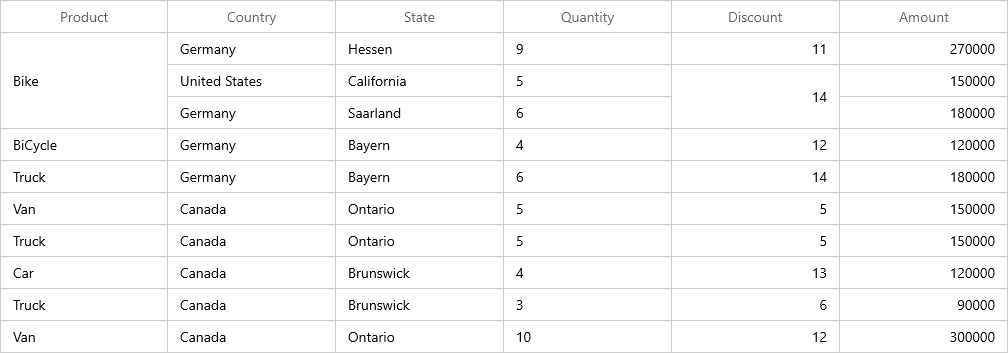
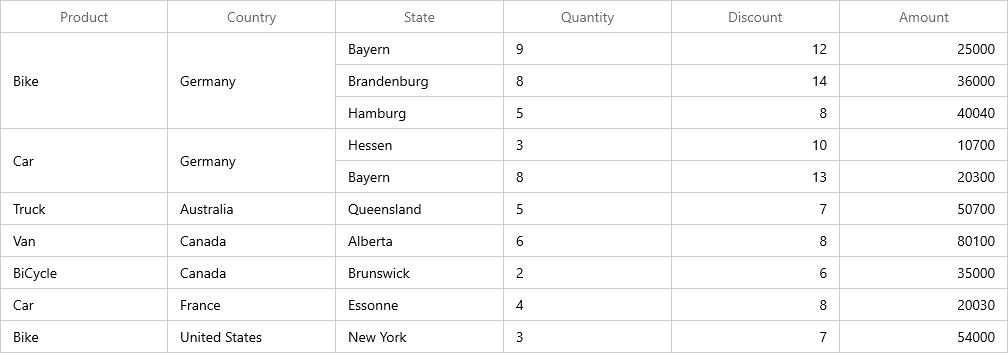
ModifiedSample
ModifiedSample

diff --git a/SfDataGridDemo/SfDataGridDemo/ViewModel/ProductSalesDetailsCollection.cs b/SfDataGridDemo/SfDataGridDemo/ViewModel/ProductSalesDetailsCollection.cs
@@ -54,62 +54,19 @@ namespace SfDataGridDemo
         /// <returns></returns>
         public ObservableCollection<ProductSalesDetails> GetSalesInfo()
         {
-            /// Geography
-            string[] countries = new string[] { "Australia", "Canada", "France", "Germany", "United States" };
-            string[] ausStates = new string[] { "New South Wales", "Queensland", "South Australia", "Tasmania", "Victoria" };
-            string[] canadaStates = new string[] { "Alberta", "British Columbia", "Brunswick", "Manitoba", "Ontario", "Quebec" };
-            string[] franceStates = new string[] { "Charente-Maritime", "Essonne", "Garonne (Haute)", "Gers", };
-            string[] germanyStates = new string[] { "Bayern", "Brandenburg", "Hamburg", "Hessen", "Nordrhein-Westfalen", "Saarland" };
+            _productInfo = new ObservableCollection<ProductSalesDetails>();
+            _productInfo.Add(new ProductSalesDetails("Bike", "Germany", "Bayern", 9, 12, 25000));
+            _productInfo.Add(new ProductSalesDetails("Bike", "Germany", "Brandenburg", 8, 14, 36000));
+            _productInfo.Add(new ProductSalesDetails("Bike", "Germany", "Hamburg", 5, 8, 40040));
+            _productInfo.Add(new ProductSalesDetails("Car", "Germany", "Hessen", 3, 10, 10700));
+            _productInfo.Add(new ProductSalesDetails("Car", "Germany", "Bayern", 8, 13, 20300));
+            _productInfo.Add(new ProductSalesDetails("Truck", "Australia", "Queensland", 5, 7, 50700));
+            _productInfo.Add(new ProductSalesDetails("Van", "Canada", "Alberta", 6, 8, 80100));
+            _productInfo.Add(new ProductSalesDetails("BiCycle", "Canada", "Brunswick", 2, 6, 35000));
+            _productInfo.Add(new ProductSalesDetails("Car", "France", "Essonne", 4, 8, 20030));
+            _productInfo.Add(new ProductSalesDetails("Bike", "United States", "New York", 3, 7, 54000));
 
-            string[] ussStates = new string[] { "New York", "North Carolina", "Alabama", "California", "Colorado", "New Mexico", "South Carolina" };
-
-            /// Products
-            string[] products = new string[] { "Bike", "Car", "Truck", "Van", "BiCycle" };
-            Random r = new Random(0);
-
-            int numberOfRecords = 10;
-            ObservableCollection<ProductSalesDetails> listOfProductSales = new ObservableCollection<ProductSalesDetails>();
-            for (int i = 0; i < numberOfRecords; i++)
-            {
-                ProductSalesDetails sales = new ProductSalesDetails();
-                sales.Country = countries[r.Next(1, countries.GetLength(0))];
-                sales.Quantity = r.Next(1, 12);
-                sales.Discount = r.Next(1, 15);
-                sales.Amount = (30000 * sales.Quantity);
-                sales.Product = products[r.Next(r.Next(products.GetLength(0) + 1))];
-                switch (sales.Country)
-                {
-                    case "Australia":
-                        {
-                            sales.State = ausStates[r.Next(ausStates.GetLength(0))];
-                            break;
-                        }
-                    case "Canada":
-                        {
-                            sales.State = canadaStates[r.Next(canadaStates.GetLength(0))];
-                            break;
-                        }
-                    case "France":
-                        {
-                            sales.State = franceStates[r.Next(franceStates.GetLength(0))];
-                            break;
-                        }
-                    case "Germany":
-                        {
-                            sales.State = germanyStates[r.Next(germanyStates.GetLength(0))];
-                            break;
-                        }
-                    case "United States":
-                        {
-                            sales.State = ussStates[r.Next(ussStates.GetLength(0))];
-                            break;
-                        }
-                }
-
-                listOfProductSales.Add(sales);
-            }
-
-            return listOfProductSales;
+            return _productInfo;
         }
     }
 }

diff --git a/SfDataGridDemo/SfDataGridDemo/MainWindow.xaml.cs b/SfDataGridDemo/SfDataGridDemo/MainWindow.xaml.cs
@@ -29,8 +29,8 @@ namespace SfDataGridDemo
         public MainWindow()
         {
             this.InitializeComponent();
-            this.sfDataGrid.ItemsSourceChanged += SfDataGrid_ItemsSourceChanged;
-            this.sfDataGrid.QueryCoveredRange += SfDataGrid_QueryCoveredRange;
+            this.sfDataGrid.ItemsSourceChanged += OnItemsSourceChanged;
+            this.sfDataGrid.QueryCoveredRange += OnQueryCoveredRange;
         }
 
 
@@ -43,7 +43,7 @@ namespace SfDataGridDemo
         /// <summary>
         /// ItemsSourceChanged event handler.
         /// </summary>
-        private void SfDataGrid_ItemsSourceChanged(object sender, GridItemsSourceChangedEventArgs e)
+        private void OnItemsSourceChanged(object sender, GridItemsSourceChangedEventArgs e)
         {
             if (sfDataGrid.View != null)
                 reflector = sfDataGrid.View.GetPropertyAccessProvider();
@@ -54,12 +54,12 @@ namespace SfDataGridDemo
         /// <summary>
         /// QueryCoveredRange event handler
         /// </summary>
-        private void SfDataGrid_QueryCoveredRange(object sender, GridQueryCoveredRangeEventArgs e)
+        private void OnQueryCoveredRange(object sender, GridQueryCoveredRangeEventArgs e)
         {
             CoveredCellInfo range = null;
 
             ////here apply merge the cell based on Columns
-            if (e.GridColumn.MappingName == "Product" || e.GridColumn.MappingName == "Country" || e.GridColumn.MappingName == "Discount")
+            if (e.GridColumn.MappingName == "Product" || e.GridColumn.MappingName == "Country" )
                 range = GetRange(e.GridColumn, e.RowColumnIndex.RowIndex, e.RowColumnIndex.ColumnIndex, e.Record);
 
             if (range == null)
@@ -89,7 +89,7 @@ namespace SfDataGridDemo
             var range = new CoveredCellInfo(columnIndex, columnIndex, rowIndex, rowIndex);
             object data = reflector.GetFormattedValue(rowData, column.MappingName);
 
-            //here get the Product value for checikng other cell value
+            //here get the Product value for checking  other cell value
             string productData = (rowData as ProductSalesDetails).Product;
 
             GridColumn leftColumn = null;
@@ -211,7 +211,7 @@ namespace SfDataGridDemo
                     break;
                 var compareData = reflector.GetFormattedValue((nextData as RecordEntry).Data, column.MappingName);
 
-                //get the next row data value of RigID
+                //get the next row data value of Product
                 string productNextData = ((nextData as RecordEntry).Data as ProductSalesDetails).Product;
 
                 if (compareData == null)

diff --git a/SfDataGridDemo/SfDataGridDemo/Model/ProductSalesDetails.cs b/SfDataGridDemo/SfDataGridDemo/Model/ProductSalesDetails.cs
@@ -149,5 +149,16 @@ namespace SfDataGridDemo
             if (PropertyChanged != null)
                 this.PropertyChanged(this, new PropertyChangedEventArgs(propertyName));
         }
+
+        public ProductSalesDetails(string product, string country, string state,int quantity,double discount,double amount)
+        {
+            this.Product = product;
+            this.Country = country;
+            this.State = state;
+            this.Quantity = quantity;
+            this.Discount = discount;
+            this.Amount = amount;
+
+        }
     }
 }
